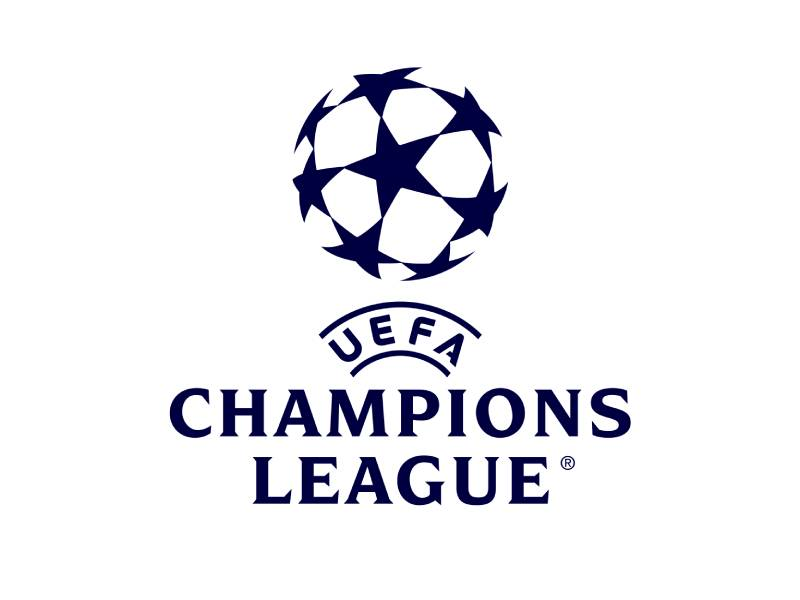
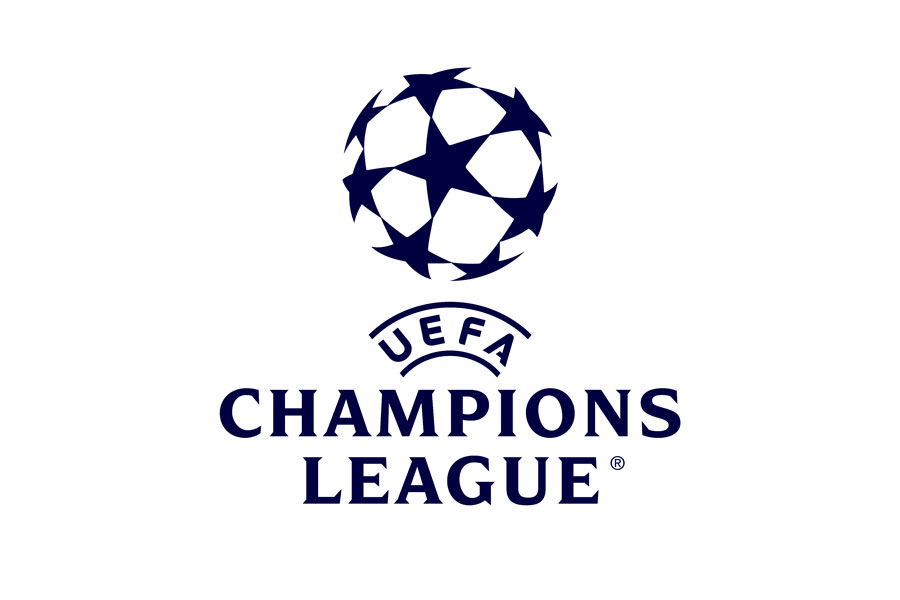
img covers resized

diff --git a/app/page.tsx b/app/page.tsx
@@ -16,8 +16,8 @@ export default function Home() {
             <Image
               src="/covers/ligue_1_cover.jpg"
               alt="logo L1"
-              width={400}
-              height={300}
+              width={420}
+              height={280}
               className="cursor-pointer rounded-xl border-4 hover:invert"
               priority
             />
@@ -29,8 +29,8 @@ export default function Home() {
             <Image
               src="/covers/coupe_de_france_cover.jpg"
               alt="logo Coupe de France"
-              width={400}
-              height={300}
+              width={420}
+              height={280}
               className="cursor-pointer rounded-xl border-4 border-sky-900 hover:invert"
             />
           </Link>
@@ -43,8 +43,8 @@ export default function Home() {
             <Image
               src="/covers/champions_league_cover.jpg"
               alt="logo Ligue des Champions"
-              width={400}
-              height={300}
+              width={420}
+              height={280}
               className="cursor-pointer rounded-xl border-4 border-sky-900 hover:invert"
               priority
             />
@@ -56,8 +56,8 @@ export default function Home() {
             <Image
               src="/covers/coupe_du_monde_cover.jpg"
               alt="logo Coupe du monde"
-              width={400}
-              height={300}
+              width={420}
+              height={280}
               className="cursor-pointer rounded-xl border-4 hover:invert"
             />
           </Link>
